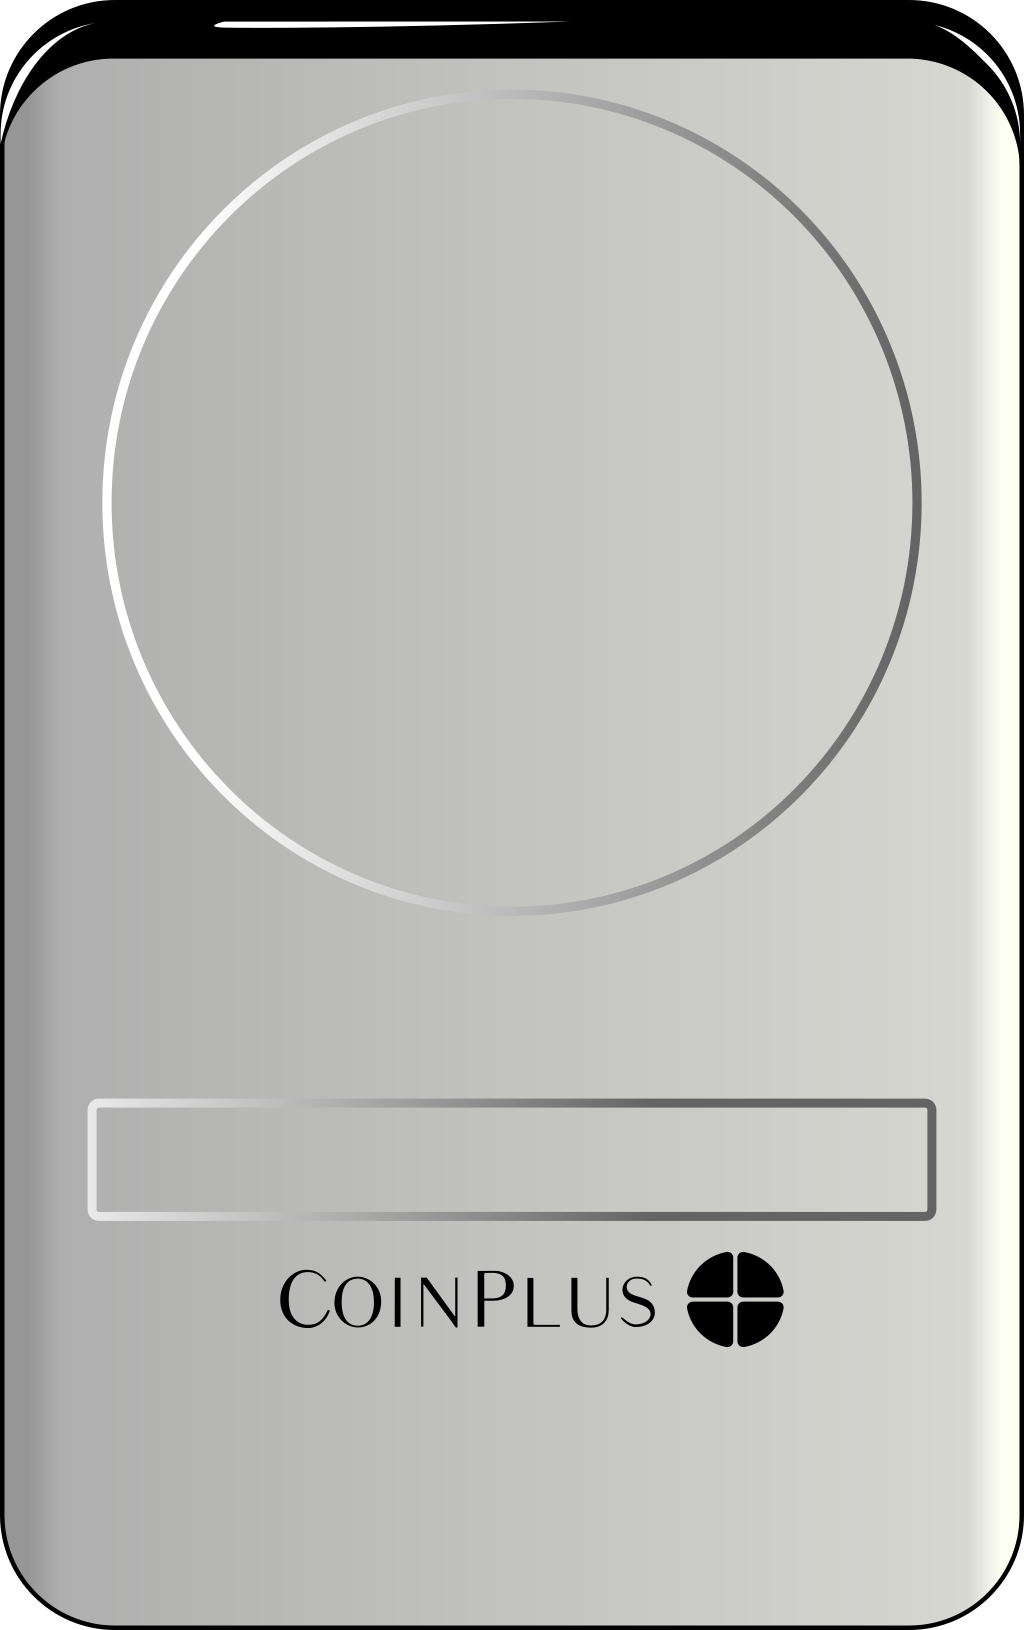
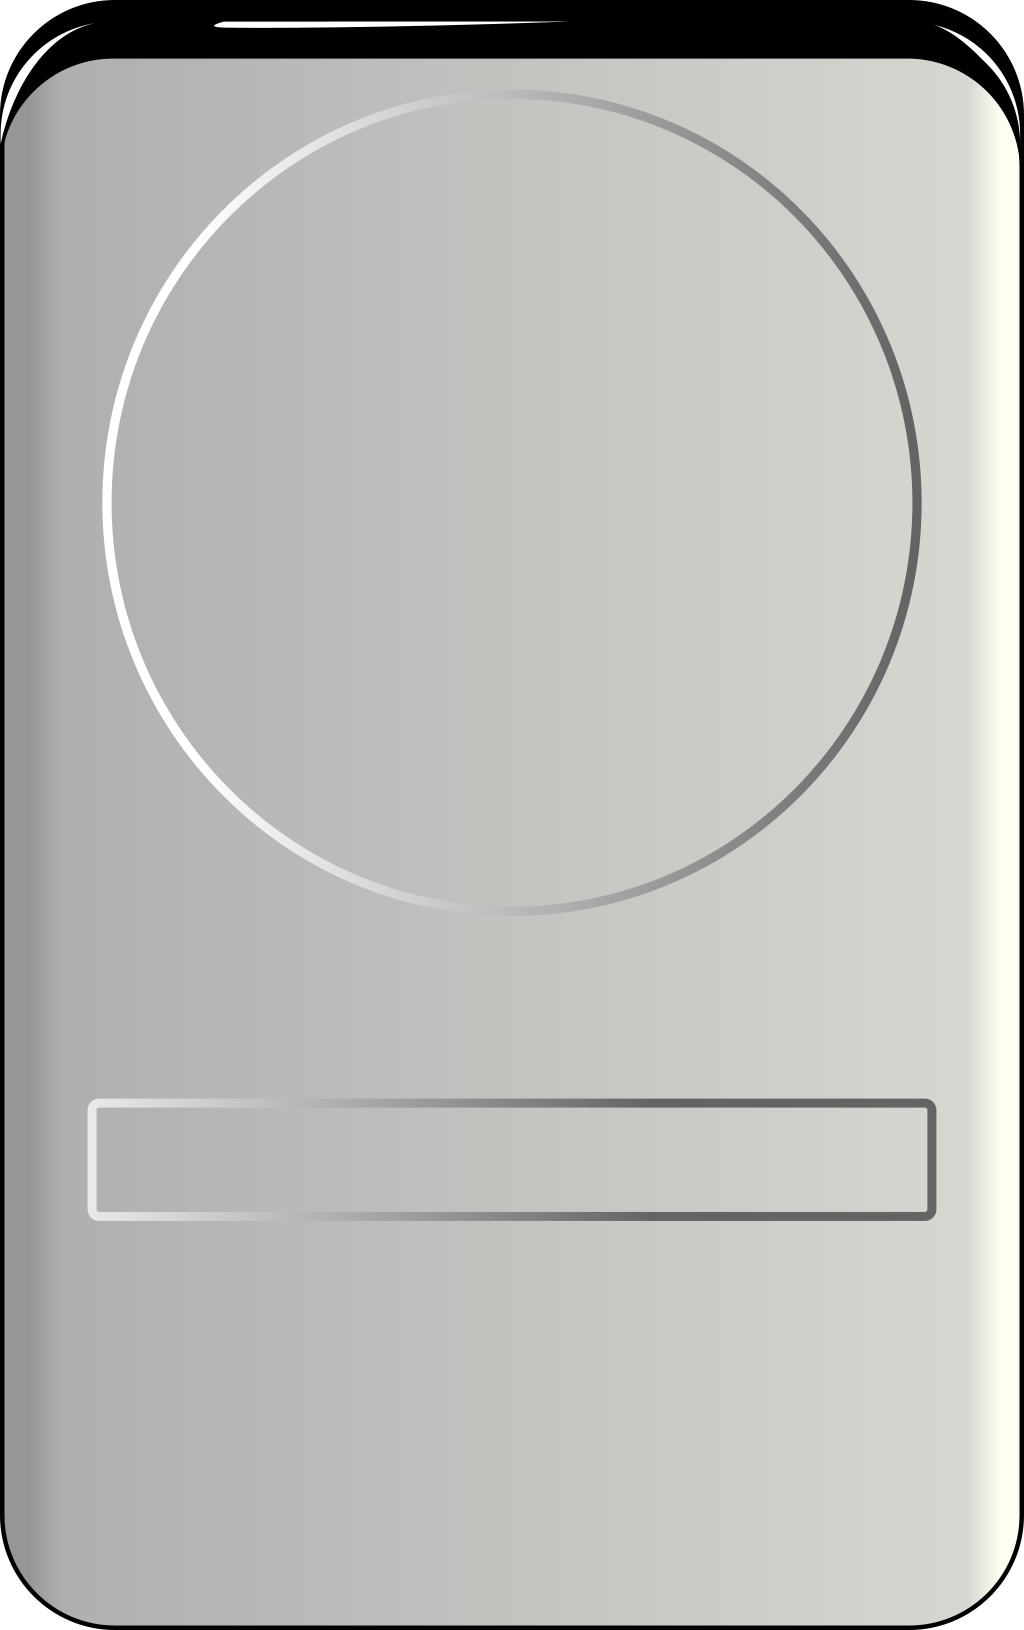
ui improvements

diff --git a/src/screens/BarInputScreen.js b/src/screens/BarInputScreen.js
@@ -46,6 +46,7 @@ const ratio = originalWidth / originalHeight;
 
 const adjust = 7;
 
+// Input 1 = long input (28 chars)
 const input1 = {
   x: 194 - adjust,
   y: 407,
@@ -53,11 +54,19 @@ const input1 = {
   height: 731 - 407,
 };
 
+// Input 2 = short input (14 chars)
 const input2 = {
   x: 194 - adjust,
-  y: 1513,
+  y: 1518,
   width: 926 - 194,
-  height: 1690 - 1513,
+  height: 1695 - 1518,
+};
+
+// Input 3 = Bar #
+const input3 = {
+  x: 560 - 732 / 2,
+  y: 1345,
+  width: 732,
 };
 
 const publicKeyInput = {
@@ -197,7 +206,11 @@ class BarInputScreen extends Component {
         <Content contentContainerStyle={{ flexGrow: 1 }}>
           <View style={styles.view}>
             <Image
-              source={require("../assets/bar-input.png")}
+              source={
+                mode === "pro"
+                  ? require("../assets/bar-input.png")
+                  : require("../assets/bar-input-logo.png")
+              }
               style={[styles.image, { width: imageWidth, height: imageHeight }]}
               onLayout={this.handleBar}
             />
@@ -255,17 +268,29 @@ class BarInputScreen extends Component {
                   />
                 </Item>
                 {mode === "pro" && (
-                  <Item picker>
+                  <Item
+                    picker
+                    style={[
+                      styles.item,
+                      styles.transparentBackground,
+                      {
+                        top: bar.y + input3.y * scale,
+                        left: input3.x * scale,
+                      },
+                    ]}
+                  >
                     <Picker
                       mode="dropdown"
                       iosHeader="Select card #"
                       iosIcon={<Icon name="ios-arrow-down" />}
                       placeholder="Select card #"
+                      placeholderStyle={{ color: "#444444" }}
+                      placeholderIconColor="#444444"
                       selectedValue={currentDeviceId}
                       onValueChange={
                         device === "first" ? updateDeviceId : updateProDeviceId
                       }
-                      style={styles.picker}
+                      style={{ width: input3.width * scale }}
                     >
                       <Picker.Item label="# 1" value="1" />
                       <Picker.Item label="# 2" value="2" />

diff --git a/src/screens/CardBackInputScreen.js b/src/screens/CardBackInputScreen.js
@@ -44,6 +44,7 @@ const ratio = originalWidth / originalHeight;
 
 const adjust = 12;
 
+// Input 1 = long input (28 chars)
 const input1 = {
   x: 82 - adjust,
   y: 342,
@@ -51,11 +52,19 @@ const input1 = {
   height: 968 - 342,
 };
 
+// Input 2 = short input (14 chars)
 const input2 = {
   x: 1762 - adjust,
   y: 342,
   width: 3316 - 1762,
   height: 717 - 342,
+};
+
+// Input 3 = Card #
+const input3 = {
+  x: 1700 - 800,
+  y: 1150,
+  width: 1600,
 };
 
 const styles = StyleSheet.create({
@@ -246,7 +255,16 @@ class CardBackInputScreen extends Component {
                   />
                 </Item>
                 {mode === "pro" && (
-                  <Item picker>
+                  <Item
+                    picker
+                    style={[
+                      styles.item,
+                      {
+                        top: bar.y + input3.y * scale,
+                        left: input3.x * scale,
+                      },
+                    ]}
+                  >
                     <Picker
                       mode="dropdown"
                       iosHeader="Select card #"
@@ -256,7 +274,9 @@ class CardBackInputScreen extends Component {
                       onValueChange={
                         device === "first" ? updateDeviceId : updateProDeviceId
                       }
-                      style={styles.picker}
+                      style={{
+                        width: input3.width * scale,
+                      }}
                     >
                       <Picker.Item label="# 1" value="1" />
                       <Picker.Item label="# 2" value="2" />
